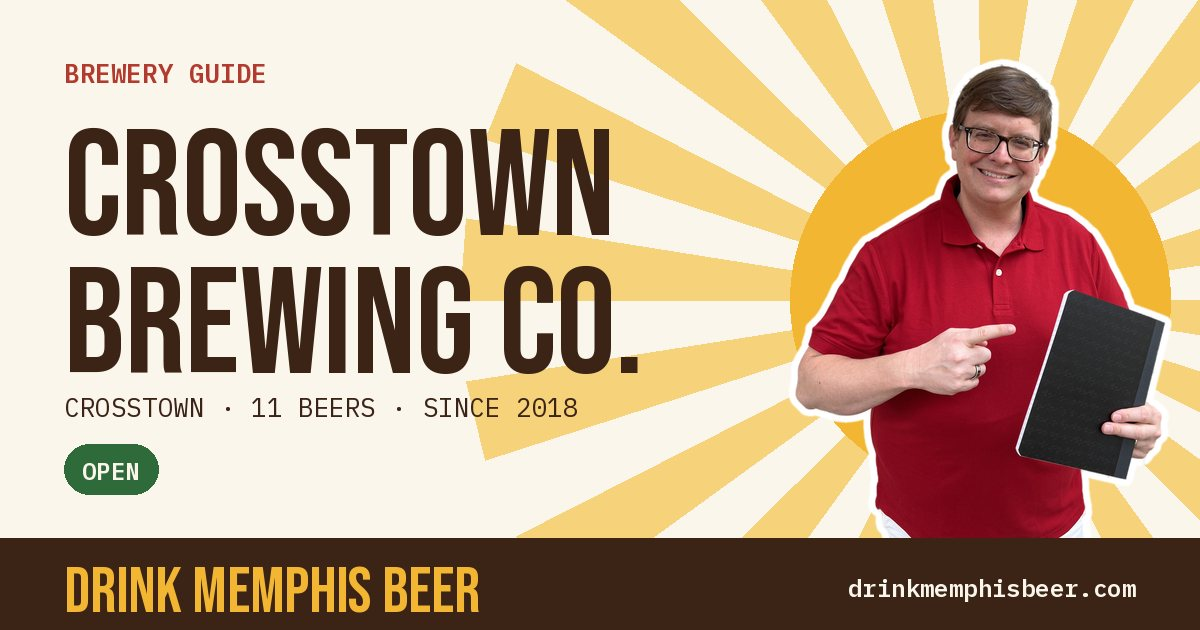
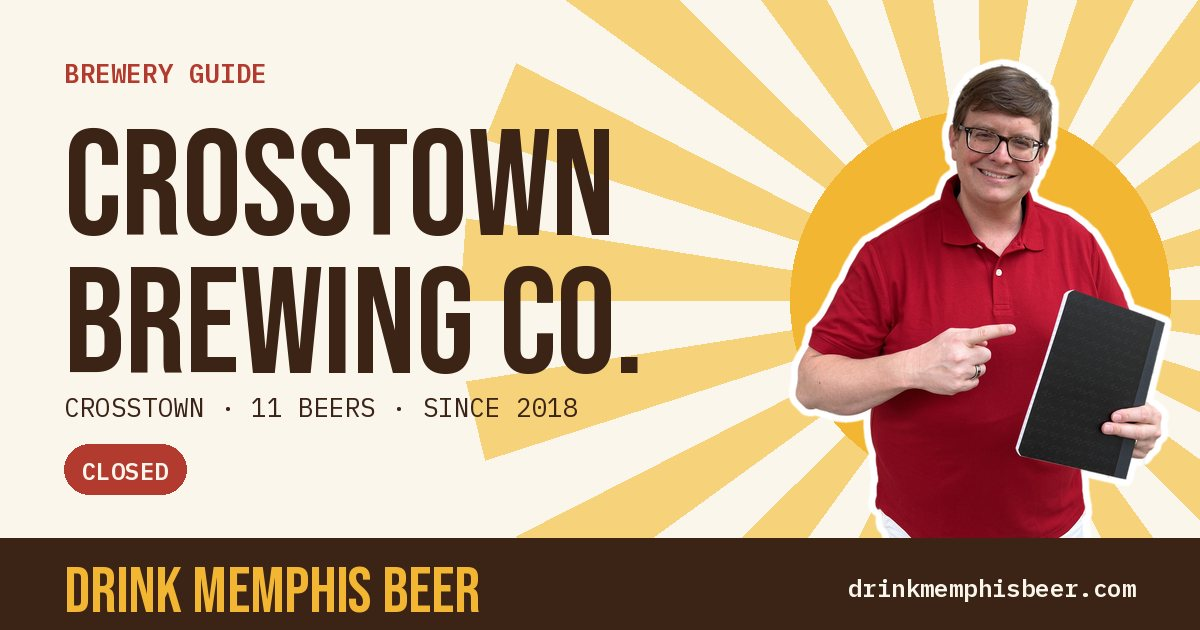
Weekly roundup Nov 26; mark Crosstown closed; Soul & Spirits owns Memphis Made
- New post: Thanksgiving-week quiet roundup with two catch-up updates
- Crosstown Brewing: closed Oct 17, 2026 (verified November 2026); its 11 beers marked retired
- Memphis Made: changed-hands to Soul & Spirits (brand bought June 2026); Tan Lines availability now unknown
- Correct the Nov 25 year-in-review post (Crosstown was listed as pouring)
- Regenerated share cards, page dates and noindex list

Claude-Session: https://claude.ai/code/session_01PoN9FetVd1CKg2hJFsPiBw

Changed region(s): [[0.0308, 0.6937, 0.1542, 0.7841]]

diff --git a/src/content/news/2026-memphis-beer-year-so-far.md b/src/content/news/2026-memphis-beer-year-so-far.md
@@ -1,7 +1,7 @@
 ---
 title: "Memphis beer in 2026: closings, a takeover and a pivot"
 date: 2026-11-25
-description: Memphis Made closed, Flyway took over High Cotton, Grind City pulled its cans, and Wiseacre brought Bearded Iris to town. Here's where the scene stands.
+description: Memphis Made and Crosstown closed, Flyway took over High Cotton, Grind City pulled its cans, and Wiseacre brought Bearded Iris to town. Here's where the scene stands.
 sources:
   - title: TheStreet via Yahoo Finance — Memphis Made closes after bankruptcy
     url: https://finance.yahoo.com/economy/policy/articles/award-winning-brewery-closes-facility-012012843.html
@@ -11,20 +11,28 @@ sources:
     url: https://ilovememphisblog.com/downtownbreweries
   - title: Brewing Industry Guide — Wiseacre case study
     url: https://www.brewingindustryguide.com/case-study-wiseacre
+  - title: Commercial Appeal via Yahoo News — Crosstown Brewing to permanently close after 8 years (Oct. 2026)
+    url: https://www.yahoo.com/news/articles/crosstown-brewing-permanently-close-8-182523852.html
+  - title: Memphis Flyer — Soul & Spirits buys Memphis Made brand (June 10, 2026)
+    url: https://www.memphisflyer.com/soul-spirits-buys-memphis-made-brand/
 ---
 
 It's been a rough year for craft beer nationally, and Memphis has felt it. Here's the short version before the weekly roundups start.
 
-**Memphis Made is gone.** The Cooper-Young brewery filed for Chapter 11 bankruptcy in August 2025 and closed its second taproom on March 29, 2026. [Memphis Made's page](/breweries/memphis-made/) keeps its story.
+**Memphis Made lost its taproom.** The Cooper-Young brewery filed for Chapter 11 bankruptcy in August 2025 and closed its second taproom on March 29, 2026. In June, Soul & Spirits bought the Memphis Made brand and is keeping its beers going. [Memphis Made's page](/breweries/memphis-made/) has the story.
 
 **High Cotton became Flyway.** Little Rock's Flyway Brewing took over the old High Cotton taproom on Monroe Avenue and pours both breweries' recipes. [See Flyway.](/breweries/flyway/)
 
 **Grind City pivoted.** It stopped selling cans in stores and is putting its energy into the taproom and its outdoor concert venue. [See Grind City.](/breweries/grind-city/)
 
+**Crosstown Brewing closed in October.** Its taproom poured for the last time on October 17, after eight years. [See Crosstown.](/breweries/crosstown/)
+
 **Hook Point and Urban Consequence are closed.** The Memphis Flyer counts four breweries from the post-2013 boom that didn't survive.
 
 **Wiseacre got bigger.** It bought Nashville's Bearded Iris in mid-2025, and Bearded Iris's Homestyle IPA is now brewed in Memphis.
 
-**The good news:** Cooper House Project, Crosstown, Flyway, Ghost River, Hampline, Maroon Brew, Meddlesome, Memphis Filling Station, Soul & Spirits and Wiseacre are all pouring. The [Status Board](/status/) shows every brewery, open or closed, with the date we last checked.
+**The good news:** Cooper House Project, Flyway, Ghost River, Hampline, Maroon Brew, Meddlesome, Memphis Filling Station, Soul & Spirits and Wiseacre are all pouring. The [Status Board](/status/) shows every brewery, open or closed, with the date we last checked.
 
 Know something we missed? [Send a tip.](/contact/)
+
+*Correction, November 26, 2026: an earlier version of this post listed Crosstown Brewing as still pouring and didn't mention that Soul & Spirits bought the Memphis Made brand. Both are fixed above.*

diff --git a/src/content/news/2026-11-26-weekly-roundup.md b/src/content/news/2026-11-26-weekly-roundup.md
@@ -1,0 +1,24 @@
+---
+title: "Thanksgiving week: a quiet one, plus two updates"
+date: 2026-11-26
+description: No new openings or releases this week. We've caught up on Crosstown Brewing's October closing and the Memphis Made beers that Soul & Spirits kept going.
+sources:
+  - title: Commercial Appeal via Yahoo News — Crosstown Brewing to permanently close after 8 years (Oct. 2026)
+    url: https://www.yahoo.com/news/articles/crosstown-brewing-permanently-close-8-182523852.html
+  - title: Memphis Beer Blog — Crosstown Brewing to close after 8 years in Memphis (Oct. 14, 2026)
+    url: https://memphisbeerblog.com/2026/10/14/crosstown-brewing-to-close-after-8-years-in-memphis/
+  - title: Daily Memphian — The AM/DM podcast, what's happened to Memphis' brew pubs and taprooms? (Nov. 5, 2026)
+    url: https://dailymemphian.com/article/68290
+  - title: Memphis Flyer — Soul & Spirits buys Memphis Made brand (June 10, 2026)
+    url: https://www.memphisflyer.com/soul-spirits-buys-memphis-made-brand/
+---
+
+Happy Thanksgiving. We looked around and found no Memphis brewery openings, closings, new releases or festival dates announced this week. Rather than pad it out, here are two updates we should have had on the site already.
+
+**Crosstown Brewing has closed.** The taproom on Concourse Avenue poured for the last time on Saturday, October 17, after eight years, with that day's Crosstoberfest doubling as the farewell. Founder Will Goodwin told the Commercial Appeal it came down to "financial reasons." The company said its draft beer would stay on at local bars and restaurants until it runs out, so a stray keg of Traffic or Siren may still turn up. The Daily Memphian's AM/DM podcast took a wider look this month at why Memphis taprooms keep pulling back. [Crosstown's page](/breweries/crosstown/) and its beers are now marked closed and retired.
+
+**Memphis Made beer is still around.** Back in June, Soul & Spirits bought the Memphis Made brand and promised to keep its beers in stores and on tap, including at its own Uptown taproom. So if Fireside Amber was your beer, it's not gone. [Memphis Made's page](/breweries/memphis-made/) now points to [Soul & Spirits](/breweries/soul-and-spirits/).
+
+**A tip for the long weekend:** call or check a brewery's social pages before you head over on Thanksgiving Day or Black Friday. Holiday hours change, and nobody wants to drive across town to a locked door. The [Status Board](/status/) shows when we last checked each brewery. If a place turns out to be closed, Memphis tap water is still pouring, and it's still the bar every beer here has to clear.
+
+Know something we missed? [Send a tip.](/contact/)

diff --git a/src/content/breweries/crosstown.md b/src/content/breweries/crosstown.md
@@ -1,22 +1,31 @@
 ---
 name: Crosstown Brewing Co.
-status: open
-verified: May 2026
+status: closed
+verified: November 2026
+statusNote: Closed for good on Saturday, October 17, 2026, after eight years. Founder Will Goodwin cited financial reasons.
 neighborhood: crosstown
 locations:
-  - label: Brewery & taproom
+  - label: Former brewery & taproom (closed)
     address: 1264 Concourse Ave, Memphis, TN
     lat: 35.15154
     lng: -90.0131
 founded: 2018
-summary: Neighborhood brewery steps from Crosstown Concourse, with indoor and outdoor seating and a lager made with Huey's.
+summary: Neighborhood brewery steps from Crosstown Concourse that closed in October 2026 after eight years.
 sources:
+  - title: Commercial Appeal via Yahoo News — Crosstown Brewing to permanently close after 8 years (Oct. 2026)
+    url: https://www.yahoo.com/news/articles/crosstown-brewing-permanently-close-8-182523852.html
+  - title: Memphis Beer Blog — Crosstown Brewing to close after 8 years in Memphis (Oct. 14, 2026)
+    url: https://memphisbeerblog.com/2026/10/14/crosstown-brewing-to-close-after-8-years-in-memphis/
+  - title: Daily Memphian — The AM/DM podcast, what's happened to Memphis' brew pubs and taprooms? (Nov. 2026)
+    url: https://dailymemphian.com/article/68290
   - title: Memphis Flyer — Memphis beer guide (May 2026)
     url: https://www.memphisflyer.com/?p=25166703
   - title: I Love Memphis — Memphis brewery guide
     url: https://ilovememphisblog.com/breweries
 ---
 
-Crosstown Brewing opened in 2018 in its own building near Crosstown Concourse, the old Sears building turned into a vertical village. It's an easy add-on to a Concourse visit, with seating inside and out.
+Crosstown Brewing opened its taproom on February 16, 2018, in its own building near Crosstown Concourse, the old Sears building turned into a vertical village. Will Goodwin and Clark Ortkiese founded it, and its beer was distributed in Tennessee, Mississippi and Arkansas.
 
-One of its best-known beers is Fool's Gold, an American lager brewed with Huey's, the Memphis burger institution.
+The taproom poured for the last time on Saturday, October 17, 2026. That day's Crosstoberfest became the farewell party. Goodwin told the Commercial Appeal that "financial reasons" were behind the closing and that it had been "a fairly long time coming."
+
+The company said its draft beer would stay on at local restaurants and bars until supply runs out, so you may still spot Traffic or Siren on a tap list for a little while. Its best-known beers also included Fool's Gold, an American lager brewed with Huey's.

diff --git a/src/content/breweries/memphis-made.md b/src/content/breweries/memphis-made.md
@@ -1,8 +1,9 @@
 ---
 name: Memphis Made Brewing Co.
-status: closed
-verified: March 2026
-statusNote: Filed for Chapter 11 bankruptcy in August 2025 and closed its last taproom on March 29, 2026.
+status: changed-hands
+verified: November 2026
+successor: soul-and-spirits
+statusNote: Filed for Chapter 11 bankruptcy in August 2025 and closed its last taproom on March 29, 2026. Soul & Spirits bought the Memphis Made brand in June 2026 and promised to keep its beers in stores and on tap.
 neighborhood: edge-district
 alsoIn: [cooper-young]
 locations:
@@ -10,7 +11,7 @@ locations:
     address: 16 S. Lauderdale St, Memphis, TN
   - label: Original Cooper-Young brewery (closed 2024)
     address: 768 S. Cooper St, Memphis, TN
-summary: Longtime Cooper-Young brewery that moved to the Edge District, then closed in 2026 after a 2025 bankruptcy filing.
+summary: Longtime Cooper-Young brewery whose taproom closed in 2026. Soul & Spirits now owns the brand and keeps the beers going.
 sources:
   - title: I Love Memphis — 8 Downtown Memphis craft breweries
     url: https://ilovememphisblog.com/downtownbreweries
@@ -18,8 +19,12 @@ sources:
     url: https://finance.yahoo.com/economy/policy/articles/award-winning-brewery-closes-facility-012012843.html
   - title: Memphis Flyer — Memphis beer guide (May 2026)
     url: https://www.memphisflyer.com/?p=25166703
+  - title: Memphis Flyer — Soul & Spirits buys Memphis Made brand (June 10, 2026)
+    url: https://www.memphisflyer.com/soul-spirits-buys-memphis-made-brand/
 ---
 
 Memphis Made was one of the city's more established breweries and a Cooper-Young anchor. It filed for Chapter 11 bankruptcy on August 7, 2025, about a year after leaving its original Cooper-Young brewery for a new home on S. Lauderdale St in the Edge District. That taproom closed on March 29, 2026.
 
-It was known for beers like Fireside amber, Junt cream ale and Cat Nap IPA. Its cans lingered on store shelves for a while after, including Tan Lines, a Kölsch with tangerine. If you still have one in the fridge, you're holding a piece of Memphis beer history.
+It was known for beers like Fireside amber, Junt cream ale and Cat Nap IPA. In 2024 the Flyer counted it as the fourth-largest producing brewery in Memphis.
+
+The beer didn't die with the taproom. In June 2026 [Soul & Spirits](/breweries/soul-and-spirits/) bought the Memphis Made trademark and said it would keep the brand's beers in stores and on tap, with Memphis Made on draft and to-go at its Uptown taproom. Fireside Amber, the fan favorite, is the one to look for.

diff --git a/src/content/beers/memphis-made/tan-lines.md b/src/content/beers/memphis-made/tan-lines.md
@@ -2,11 +2,13 @@
 name: Tan Lines
 brewery: memphis-made
 style: Kölsch with tangerine
-availability: retired
-description: Memphis Made's tangerine Kölsch. The brewery closed in 2026, so this one is now a collector's can.
+availability: unknown
+description: Memphis Made's tangerine Kölsch. Soul & Spirits now owns the Memphis Made brand; we haven't confirmed whether this one is still brewed.
 sources:
   - title: Memphis Flyer — Memphis beer guide (May 2026)
     url: https://www.memphisflyer.com/?p=25166703
+  - title: Memphis Flyer — Soul & Spirits buys Memphis Made brand (June 10, 2026)
+    url: https://www.memphisflyer.com/soul-spirits-buys-memphis-made-brand/
 ---
 
-Tan Lines was a Kölsch with tangerine from Memphis Made. The brewery closed its last taproom in March 2026, and the remaining cans are long gone from most shelves.
+Tan Lines is a Kölsch with tangerine from Memphis Made. The brewery closed its last taproom in March 2026, and in June Soul & Spirits bought the Memphis Made brand, promising to keep its beers in stores and on tap. The Flyer's report named Fireside Amber but not Tan Lines, so we're not sure this one made the jump. If you've seen it lately, [tell us](/contact/).

diff --git a/src/content/beers/crosstown/siren.md b/src/content/beers/crosstown/siren.md
@@ -4,13 +4,17 @@ brewery: crosstown
 style: "Blonde Ale"
 abv: 5.2
 ibu: 26
-availability: year-round
+availability: retired
 description: "Crosstown's easy blonde ale, hopped with German Hallertauer Mittelfrüh."
 sources:
   - title: "Memphis Beer Blog — Memphis brewery and craft beer guide"
     url: https://memphisbeerblog.com/memphis-craft-beer-and-brewery-guide/
   - title: "Untappd — Crosstown Siren"
     url: https://www.untappd.com/b/crosstown-brewing-company-siren/2493013
+  - title: Commercial Appeal via Yahoo News — Crosstown Brewing to permanently close after 8 years (Oct. 2026)
+    url: https://www.yahoo.com/news/articles/crosstown-brewing-permanently-close-8-182523852.html
 ---
 
 Siren is Crosstown's go-anywhere beer. It's a blonde ale hopped with Hallertauer Mittelfrüh, so there's a little spice and some floral, citrusy notes, but the bitterness stays low. It's the one to hand a friend who says they "don't really like beer."
+
+Crosstown Brewing closed its taproom for good on October 17, 2026. Its distributor said draft Crosstown beer would stay on at local bars and restaurants until supply runs out, so if you spot this one on a tap list, it may be one of the last kegs.

diff --git a/src/content/beers/crosstown/traffic.md b/src/content/beers/crosstown/traffic.md
@@ -3,13 +3,17 @@ name: "Traffic"
 brewery: crosstown
 style: "American IPA"
 abv: 6.2
-availability: year-round
+availability: retired
 description: "Crosstown's West Coast-leaning IPA, hopped with Simcoe, Ella and Citra."
 sources:
   - title: "Memphis Beer Blog — Memphis brewery and craft beer guide"
     url: https://memphisbeerblog.com/memphis-craft-beer-and-brewery-guide/
   - title: "BeerMenus — Crosstown Traffic"
     url: https://www.beermenus.com/beers/298443-crosstown-traffic
+  - title: Commercial Appeal via Yahoo News — Crosstown Brewing to permanently close after 8 years (Oct. 2026)
+    url: https://www.yahoo.com/news/articles/crosstown-brewing-permanently-close-8-182523852.html
 ---
 
 Traffic is the beer most people mean when they say Crosstown. It's a West Coast-style IPA: grapefruit, mango and pineapple from Simcoe, Ella and Citra hops, then a firm bitterness and a dry finish. You'll find it in six-packs all over town.
+
+Crosstown Brewing closed its taproom for good on October 17, 2026. Its distributor said draft Crosstown beer would stay on at local bars and restaurants until supply runs out, so if you spot this one on a tap list, it may be one of the last kegs.

diff --git a/src/content/beers/crosstown/lucky-chompers.md b/src/content/beers/crosstown/lucky-chompers.md
@@ -4,13 +4,17 @@ brewery: crosstown
 style: "Helles Lager"
 abv: 5.7
 ibu: 18
-availability: year-round
+availability: retired
 description: "A Munich-style helles lager from Crosstown."
 sources:
   - title: "Memphis Beer Blog — Memphis brewery and craft beer guide"
     url: https://memphisbeerblog.com/memphis-craft-beer-and-brewery-guide/
   - title: "Jolly Pint — Crosstown Brewing Company"
     url: https://jollypint.pages.dev/us/tn/memphis/crosstown-brewing-company
+  - title: Commercial Appeal via Yahoo News — Crosstown Brewing to permanently close after 8 years (Oct. 2026)
+    url: https://www.yahoo.com/news/articles/crosstown-brewing-permanently-close-8-182523852.html
 ---
 
 Lucky Chompers is Crosstown's helles, the soft, bready German lager style built for drinking a few of. It's on the brewery's year-round board.
+
+Crosstown Brewing closed its taproom for good on October 17, 2026. Its distributor said draft Crosstown beer would stay on at local bars and restaurants until supply runs out, so if you spot this one on a tap list, it may be one of the last kegs.

diff --git a/src/content/beers/crosstown/dog-days.md b/src/content/beers/crosstown/dog-days.md
@@ -4,13 +4,17 @@ brewery: crosstown
 style: "Watermelon Lemonade Shandy"
 abv: 4.0
 ibu: 12
-availability: seasonal
+availability: retired
 description: "Crosstown's watermelon lemonade shandy."
 sources:
   - title: "Jolly Pint — Crosstown Brewing Company"
     url: https://jollypint.pages.dev/us/tn/memphis/crosstown-brewing-company
   - title: "TapHunter — Crosstown Brewing"
     url: https://www.taphunter.com/brewery/crosstown-brewing/5441845036449792
+  - title: Commercial Appeal via Yahoo News — Crosstown Brewing to permanently close after 8 years (Oct. 2026)
+    url: https://www.yahoo.com/news/articles/crosstown-brewing-permanently-close-8-182523852.html
 ---
 
 Dog Days is a watermelon lemonade shandy, 4%, for the stretch of Memphis summer when it's too hot for anything else. Except tap water, of course.
+
+Crosstown Brewing closed its taproom for good on October 17, 2026. Its distributor said draft Crosstown beer would stay on at local bars and restaurants until supply runs out, so if you spot this one on a tap list, it may be one of the last kegs.

diff --git a/src/content/beers/crosstown/ocansey.md b/src/content/beers/crosstown/ocansey.md
@@ -3,13 +3,17 @@ name: "Ocansey"
 brewery: crosstown
 style: "American Pale Ale"
 abv: 5.5
-availability: unknown
+availability: retired
 description: "Crosstown's American pale ale."
 sources:
   - title: "Jolly Pint — Crosstown Brewing Company"
     url: https://jollypint.pages.dev/us/tn/memphis/crosstown-brewing-company
   - title: "TapHunter — Crosstown Brewing"
     url: https://www.taphunter.com/brewery/crosstown-brewing/5441845036449792
+  - title: Commercial Appeal via Yahoo News — Crosstown Brewing to permanently close after 8 years (Oct. 2026)
+    url: https://www.yahoo.com/news/articles/crosstown-brewing-permanently-close-8-182523852.html
 ---
 
 Ocansey is Crosstown's pale ale, 5.5%, a middle ground between Siren and Traffic.
+
+Crosstown Brewing closed its taproom for good on October 17, 2026. Its distributor said draft Crosstown beer would stay on at local bars and restaurants until supply runs out, so if you spot this one on a tap list, it may be one of the last kegs.

diff --git a/src/content/beers/crosstown/spacebird.md b/src/content/beers/crosstown/spacebird.md
@@ -4,13 +4,17 @@ brewery: crosstown
 style: "Stout"
 abv: 5.2
 ibu: 35
-availability: unknown
+availability: retired
 description: "Crosstown's donut stout."
 sources:
   - title: "TapHunter — Crosstown Brewing"
     url: https://www.taphunter.com/brewery/crosstown-brewing/5441845036449792
   - title: "Untappd — Crosstown Spacebird"
     url: https://www.untappd.com/b/crosstown-brewing-company-spacebird/3510207
+  - title: Commercial Appeal via Yahoo News — Crosstown Brewing to permanently close after 8 years (Oct. 2026)
+    url: https://www.yahoo.com/news/articles/crosstown-brewing-permanently-close-8-182523852.html
 ---
 
 Spacebird is a sweet, donut-inspired stout at 5.2%, a regular sight on Memphis tap lists.
+
+Crosstown Brewing closed its taproom for good on October 17, 2026. Its distributor said draft Crosstown beer would stay on at local bars and restaurants until supply runs out, so if you spot this one on a tap list, it may be one of the last kegs.

diff --git a/src/content/beers/crosstown/vision-board.md b/src/content/beers/crosstown/vision-board.md
@@ -2,11 +2,15 @@
 name: "Vision Board"
 brewery: crosstown
 style: "Mixed Berry Sour"
-availability: year-round
+availability: retired
 description: "Crosstown's year-round mixed berry sour."
 sources:
   - title: "Memphis Beer Blog — Memphis brewery and craft beer guide"
     url: https://memphisbeerblog.com/memphis-craft-beer-and-brewery-guide/
+  - title: Commercial Appeal via Yahoo News — Crosstown Brewing to permanently close after 8 years (Oct. 2026)
+    url: https://www.yahoo.com/news/articles/crosstown-brewing-permanently-close-8-182523852.html
 ---
 
 Vision Board is a mixed berry sour, and Memphis Beer Blog's pick for the one Crosstown beer you need to try. Tart, fruity and a good break from the IPAs.
+
+Crosstown Brewing closed its taproom for good on October 17, 2026. Its distributor said draft Crosstown beer would stay on at local bars and restaurants until supply runs out, so if you spot this one on a tap list, it may be one of the last kegs.
